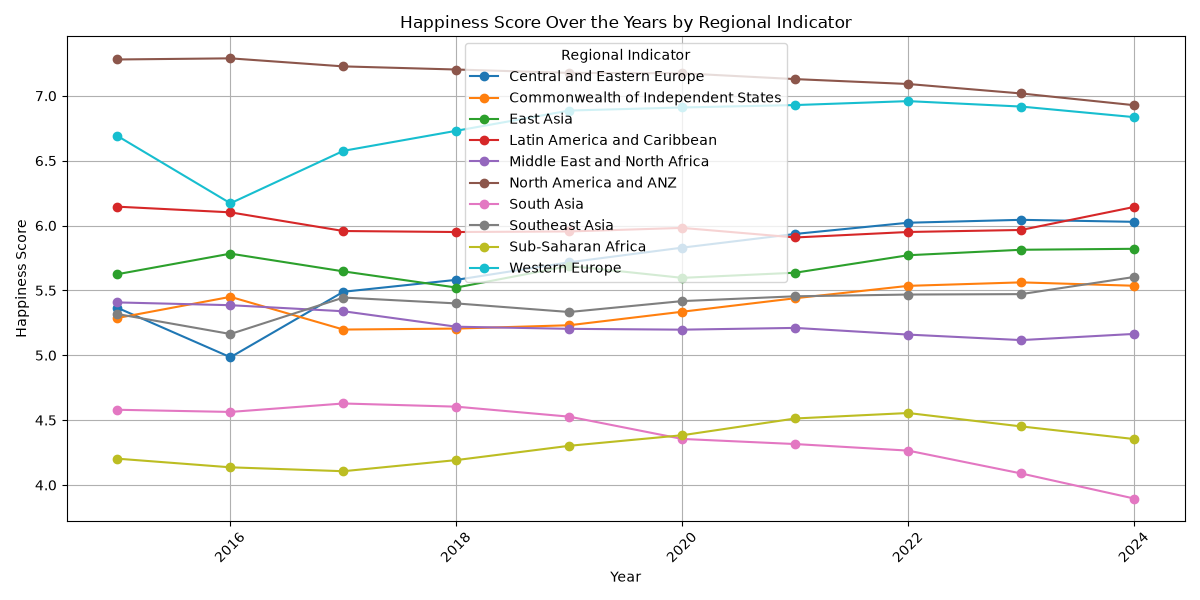
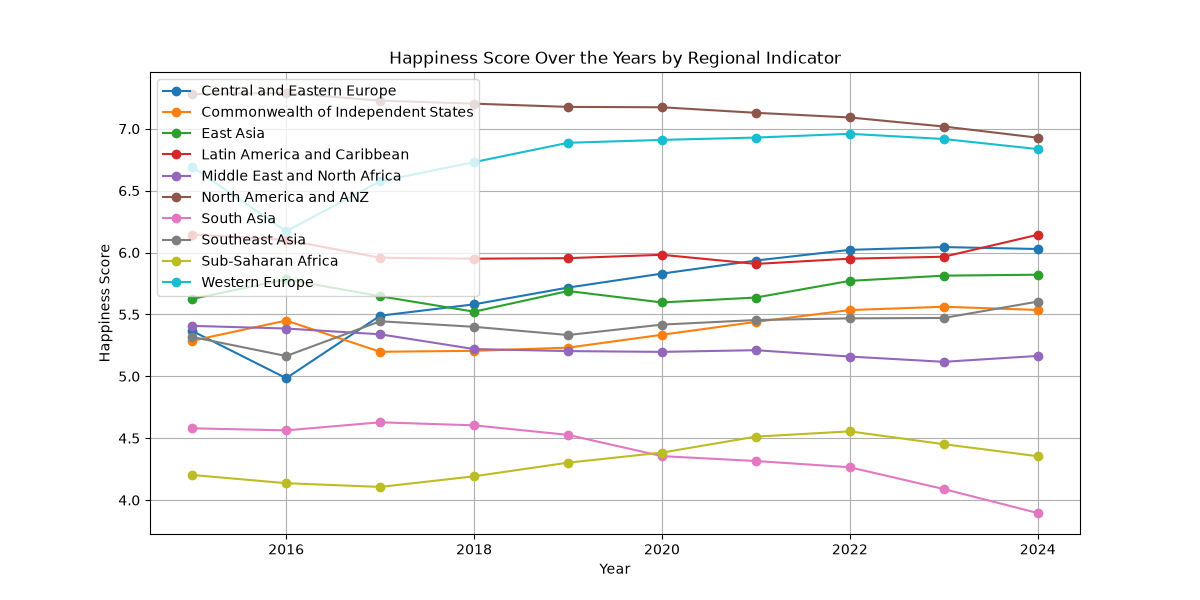
update based on the review

diff --git a/assignments_07/project_07.py b/assignments_07/project_07.py
@@ -2,7 +2,6 @@ from smolagents import tool
 import pandas as pd
 from scipy.stats import pearsonr
 import os
-import glob
 
 # Path to the merged Week 1 dataset
 DATA_PATH = "assignments_01/outputs/merged_happiness.csv"
@@ -15,38 +14,49 @@ DATA_PATH = "assignments_01/outputs/merged_happiness.csv"
 df = None
 
 @tool
-def load_happiness_data() -> dict:    
+def load_happiness_data() -> dict:
     """Load the World Happiness dataset into memory.
-    Load the merged CSV from DATA_PATH. If that file 
-    does not exist, fall back to loading and merging 
-    all yearly CSVs from assignments/resources/happiness_project/ 
-    using a loop.  
-    Store the result in the global df.
+
+    Loads the merged World Happiness CSV from DATA_PATH. If the merged
+    file does not exist, loads and merges the yearly World Happiness CSV
+    files from the happiness project resources directory.
 
     Returns:
-    dict: A dictionary containing the shape and column names of the
-    loaded dataset, or an error message if the data cannot be loaded.
+        dict: A dictionary containing the dataset shape and column names.
     """
     global df
 
-    try:
-        if os.path.exists(DATA_PATH):
-            df = pd.read_csv(DATA_PATH)
-        else:
-            dfs = []
-            files = glob.glob("assignments/resources/happiness_project/*.csv")
-            for file in files:
-                yearly_df = pd.read_csv(file)
-                dfs.append(yearly_df)
+    if os.path.exists(DATA_PATH):
+        df = pd.read_csv(DATA_PATH)
+    else:
+        dfs = []
 
-            df = pd.concat(dfs, ignore_index=True)
-        return {
-            "shape": df.shape,
-            "columns": df.columns.tolist()
-        }
-    except Exception as e:
-        return {"error": str(e)}
+        for year in range(2015, 2025):
+            file_path = (
+                f"assignments/resources/happiness_project/"
+                f"world_happiness_{year}.csv"
+            )
 
+            yearly_df = pd.read_csv(
+                file_path,
+                sep=";",
+                decimal=","
+            )
+
+            yearly_df.rename(
+                columns={"Ladder score": "Happiness score"},
+                inplace=True
+            )
+
+            yearly_df["year"] = year
+            dfs.append(yearly_df)
+
+        df = pd.concat(dfs, ignore_index=True)
+
+    return {
+        "shape": df.shape,
+        "columns": df.columns.tolist()
+    }
 @tool
 def summarize_column(column: str) -> dict:
     """Return descriptive statistics for a single column 
@@ -114,10 +124,9 @@ def get_top_n_countries(column: str, year: int, n: int = 5) -> dict:
         n: The number of countries to return.
 
       Returns:
-        dict: A dictionary containing the year, ranking column,
-        and a list of dictionaries with each country's name and
-        value. Returns an error message if the data or requested
-        inputs are invalid.
+        A list of dictionaries containing each country's name and
+        value for the requested column, or an error dictionary if
+        the data or requested inputs are invalid.
     """ 
     if df is None:
         return {"error": "Data is not loaded."}
@@ -127,20 +136,20 @@ def get_top_n_countries(column: str, year: int, n: int = 5) -> dict:
 
     try:
         year_data = df[df["year"] == year]
-
+        
         top_n = (
             year_data
             .sort_values(column, ascending=False)
             .head(n)
         )
 
-        return {
-            "year": year,
-            "column": column,
-            "results": top_n[["Country", column]].to_dict(
-                orient="records"
-            )
-        }
+        return [
+            {
+                "country": row["Country"],
+                column: row[column]
+            }
+            for _, row in top_n.iterrows()
+        ]
 
     except Exception as e:
         return {"error": str(e)}   

diff --git a/assignments_07/warmup_07.py b/assignments_07/warmup_07.py
@@ -159,10 +159,10 @@ def run_agent(user_prompt: str) -> str:
     return first_message.content or ''
 
 # Prediction:
-# I think the agent will not use the get_current_time tool because
+# I predict that the agent will not use the get_current_time tool because
 # it does not help with converting Celsius to Fahrenheit.
 #
-# I think there will be 1 API call because the agent can answer directly.
+# I predict that there will be 1 API call because the agent can answer directly.
 result = run_agent("Convert 100 degrees Celsius to Fahrenheit")
 print(result)
 
@@ -744,6 +744,7 @@ print(result)
 # =============
 # Q6
 # =============
+
 # system: gives the assistant instructions for how the agent should work with CSV files.
 # user: contains the user's question.
 # assistant: contains the LLM's response, including its reasoning and action.
@@ -845,7 +846,7 @@ def plot_data(y: str, x: str | None = None, plot_type: str = "line") -> str | di
 
     Returns:
         Generates and shows the plot. 
-        Retirms a short success message string, or an error dict/string.
+        Returns a short success message string, or an error dict/string.
     """
     return csv_manager.plot_data(y=y, x=x, plot_type=plot_type)
 
@@ -921,14 +922,12 @@ response_code = code_agent.run(
 print("ToolCallingAgent response:\n", response_tool)
 print("CodeAgent response:\n", response_code)
 
-# Both agents created the scatter plot, but neither changed the dots to green.
-# The ToolCallingAgent said the plot was created with green dots, but its tool
-# did not actually support changing the color.
-# The CodeAgent also created the plot but did not change the dots to green.
+# No, neither agent changed the dots to green.
+# ToolCallingAgent could not change the color because its tool did not support it.
+# CodeAgent also did not change the dots to green.
 #
-# This shows that ToolCallingAgent is useful when existing tools can perform
-# the task, while CodeAgent is more useful when the agent needs to write custom
-# code to control or modify the output.
+# ToolCallingAgent is useful when existing tools can complete the task.
+# CodeAgent is more useful when custom code is needed.
 
 # =============
 # Q9
